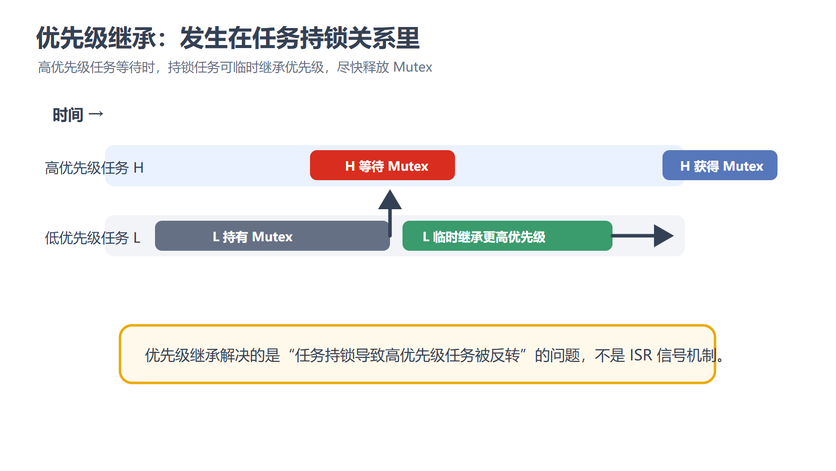
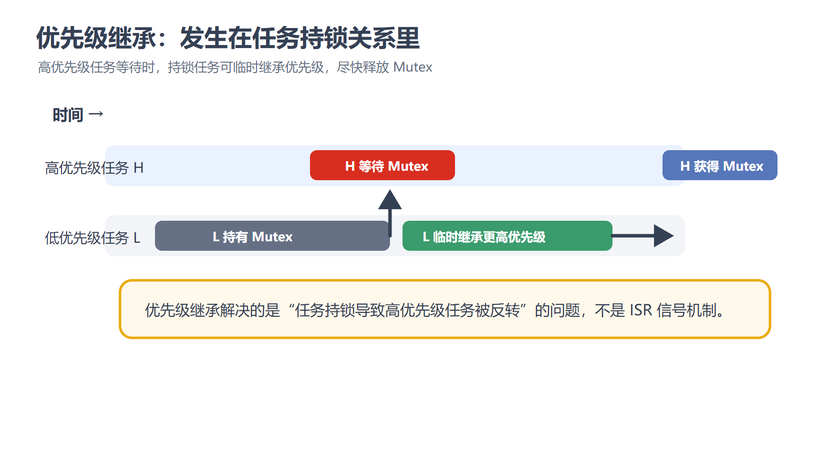
fix(phase1): keep FreeRTOS callout clear of subtitles

Changed region(s): [[0.1244, 0.5945, 0.933, 0.8323]]

diff --git a/reports/phase1/stage_20260927/scene3_still_probe.py b/reports/phase1/stage_20260927/scene3_still_probe.py
@@ -1,0 +1,81 @@
+"""Render one scene-3 still with the actual local-brief subtitle style."""
+
+from __future__ import annotations
+
+import hashlib
+import json
+import subprocess
+import sys
+from pathlib import Path
+
+import yaml
+
+ROOT = Path(__file__).resolve().parents[3]
+sys.path.insert(0, str(ROOT))
+
+from generate_video import _local_brief_subtitle_style
+from video_factory.pipeline.renderer import _subtitle_force_style
+
+
+EVIDENCE = Path(__file__).resolve().parent
+JOB = ROOT / "dist/phase1_local/phase1_8958d25a694923c9/render_job.yaml"
+ORIGINAL_SRT = ROOT / "dist/phase1_local/phase1_8958d25a694923c9/subtitle.srt"
+ONE_CUE = EVIDENCE / "scene3_one_cue.srt"
+CANDIDATE = Path("E:/OpenClaw_VideoFactory_Runtime/phase1_freertos_subtitle_safe_20260927/03-priority-inheritance-candidate-v2.png")
+STILL = Path("E:/OpenClaw_VideoFactory_Runtime/phase1_freertos_subtitle_safe_20260927/scene3_production_style_still.png")
+REPORT = EVIDENCE / "scene3_still_probe.json"
+
+
+def sha(path: Path) -> str:
+    return hashlib.sha256(path.read_bytes()).hexdigest()
+
+
+def main() -> None:
+    for path in (ONE_CUE, STILL, REPORT):
+        if path.exists():
+            raise RuntimeError(f"still_probe_target_exists:{path.name}")
+    job = yaml.safe_load(JOB.read_text(encoding="utf-8"))
+    width, height = int(job["render"]["width"]), int(job["render"]["height"])
+    fps = int(job["render"]["fps"])
+    style = job["subtitle"]["style"]
+    if style != _local_brief_subtitle_style(width, height):
+        raise RuntimeError("subtitle_style_drift")
+    cue = next(
+        block.splitlines()[2]
+        for block in ORIGINAL_SRT.read_text(encoding="utf-8").strip().split("\n\n")
+        if block.splitlines()[0] == "3"
+    )
+    ONE_CUE.write_text(f"1\n00:00:00,000 --> 00:00:01,000\n{cue}\n", encoding="utf-8")
+    ass_style = _subtitle_force_style(style, canvas_width=width, canvas_height=height)
+    srt_path = ONE_CUE.resolve().as_posix().replace(":", r"\:")
+    filter_graph = (
+        f"scale={width}:{height}:force_original_aspect_ratio=decrease,"
+        f"pad={width}:{height}:(ow-iw)/2:(oh-ih)/2:color={job['render']['pad_color']},"
+        f"fps={fps},setsar=1,format=yuv420p,"
+        f"subtitles=filename='{srt_path}':charenc=UTF-8:force_style='{ass_style}'"
+    )
+    command = [
+        "ffmpeg", "-nostdin", "-v", "error", "-loop", "1", "-framerate", str(fps),
+        "-t", "1", "-i", str(CANDIDATE), "-vf", filter_graph,
+        "-frames:v", "1", "-pix_fmt", "rgb24", str(STILL),
+    ]
+    result = subprocess.run(command, capture_output=True, text=True, check=False, timeout=30)
+    report = {
+        "schema_version": "phase1_scene3_still_probe_v1",
+        "command": command,
+        "exit_code": result.returncode,
+        "stderr": result.stderr[-1500:],
+        "source_candidate_sha256": sha(CANDIDATE),
+        "subtitle": cue,
+        "subtitle_style": style,
+        "ass_force_style": ass_style,
+        "still_exists": STILL.is_file(),
+        "still_sha256": sha(STILL) if STILL.is_file() else None,
+        "status": "rendered_for_visual_review" if result.returncode == 0 and STILL.is_file() else "failed",
+    }
+    REPORT.write_text(json.dumps(report, ensure_ascii=False, indent=2) + "\n", encoding="utf-8")
+    print(json.dumps({"status": report["status"], "exit_code": result.returncode, "still_sha256": report["still_sha256"]}, ensure_ascii=False))
+
+
+if __name__ == "__main__":
+    main()

diff --git a/tests/video/test_freertos_subtitle_geometry.py b/tests/video/test_freertos_subtitle_geometry.py
@@ -1,0 +1,48 @@
+"""Keep the FreeRTOS priority-inheritance callout clear of local-brief subtitles."""
+
+from __future__ import annotations
+
+from xml.etree import ElementTree
+
+from generate_video import _local_brief_subtitle_style
+from src.factory.phase1_local import build_local_plan, load_local_brief
+from video_factory.pipeline.renderer import _subtitle_force_style
+
+from . import ROOT
+
+
+SVG = ROOT / "assets/freertos_mutex_plain_illustrations/03-priority-inheritance.svg"
+BRIEF = ROOT / "examples/phase1_local_freertos/brief.json"
+
+
+def test_priority_inheritance_callout_clears_production_subtitle_band() -> None:
+    plan = build_local_plan(load_local_brief(BRIEF), ROOT)
+    profile = plan["render_profile"]
+    width, height = int(profile["width"]), int(profile["height"])
+    assert (width, height) == (1920, 1080)
+    assert plan["asset_selection"]["selections"][2]["asset_id"] == "pink_pig.freertos_mutex_plain_priority_inheritance.v1"
+    subtitle = str(plan["script"]["beats"][2]["subtitle"])
+    assert "\n" not in subtitle and len(subtitle) <= 20
+
+    style = _local_brief_subtitle_style(width, height)
+    ass_style = _subtitle_force_style(style, canvas_width=width, canvas_height=height)
+    ass_values = dict(part.split("=", 1) for part in ass_style.split(","))
+    font_px = int(ass_values["FontSize"]) * height / 288
+    bottom_margin_px = int(ass_values["MarginV"]) * height / 288
+    subtitle_top = height - bottom_margin_px - 1.5 * font_px
+
+    svg = ElementTree.parse(SVG).getroot()
+    group = svg.find(".//*[@id='priority-inheritance-callout']")
+    assert group is not None
+    rect = next(child for child in group if child.tag.endswith("rect"))
+    label = next(child for child in group if child.tag.endswith("text"))
+    rect_y, rect_height = float(rect.attrib["y"]), float(rect.attrib["height"])
+    assert rect_y < float(label.attrib["y"]) < rect_y + rect_height
+
+    svg_width, svg_height = float(svg.attrib["width"]), float(svg.attrib["height"])
+    scale = min(width / svg_width, height / svg_height)
+    pad_y = (height - svg_height * scale) / 2
+    callout_bottom = pad_y + (rect_y + rect_height) * scale
+    assert callout_bottom + 20 <= subtitle_top, (
+        f"callout_bottom={callout_bottom:.1f}, subtitle_top={subtitle_top:.1f}"
+    )

diff --git a/generate_video.py b/generate_video.py
@@ -976,6 +976,18 @@ def _prepare_phase1_work_dir(work_dir: Path) -> None:
             candidate.unlink()
 
 
+def _local_brief_subtitle_style(width: int, height: int) -> dict[str, object]:
+    """Use one subtitle style contract for local-brief renders and layout checks."""
+    return {
+        "layout": "bottom_safe_band",
+        "font_name": "Microsoft YaHei",
+        "font_size": 56,
+        "margin_left": 90,
+        "margin_right": 90,
+        "margin_vertical": 180 if width > height else 250,
+    }
+
+
 def run_local_brief(
     brief_path: Path,
     *,
@@ -1056,7 +1068,6 @@ def run_local_brief(
         render_height = int(render_profile.get("height", 1080))
         render_fps = int(render_profile.get("fps", 30))
         render_pad_color = str(render_profile.get("pad_color", "0xF4F6F8"))
-        subtitle_margin_vertical = 180 if render_width > render_height else 250
         render_job = {
             "schema_version": "1.0",
             "job_id": job_id,
@@ -1081,14 +1092,7 @@ def run_local_brief(
             "subtitle": {
                 "enabled": True,
                 "source": "scene_caption",
-                "style": {
-                    "layout": "bottom_safe_band",
-                    "font_name": "Microsoft YaHei",
-                    "font_size": 56,
-                    "margin_left": 90,
-                    "margin_right": 90,
-                    "margin_vertical": subtitle_margin_vertical,
-                },
+                "style": _local_brief_subtitle_style(render_width, render_height),
             },
             "mascot": {"mode": "off" if str(plan.get("mascot_mode", "off")) == "off" else "required"},
             "outputs": {

diff --git a/tasks/todo.md b/tasks/todo.md
@@ -2822,6 +2822,7 @@ Change Request: `reports/change_requests/PHASE1-STAGE-PLAN-20260927.json`; detai
 - [x] Asset repair audit: three FreeRTOS PNGs fail both decoders; two are valid. CairoSVG candidates decode but render Chinese as boxes, so no registered asset or hash was changed. See `reports/phase1/stage_20260927/freertos_asset_repair_result.json`; a qualified Chinese-text rasterizer is still required.
 - [x] Installed Chrome + system fonts produced readable Chinese replacements from the three unchanged SVGs. Valid assets 02/04 stayed byte-identical; all five now pass full Pillow and FFmpeg frame decode, registry hash/dimension checks, focused 61 tests and affected video/Phase 1 suites (362/92/24 passed). See `reports/phase1/stage_20260927/freertos_asset_repair_evidence.json`. No full FreeRTOS render or human approval in this iteration.
 - [x] One fresh FreeRTOS job `job-51fae0c8b47180bd49f2000e` from repair commit `a7ff382` reached SQLite `PENDING_REVIEW`; MP4 H.264/AAC and full decode passed. Semantic frame inspection found scene 3's subtitle covering the technical callout, so status is `CHANGES_REQUIRED` despite the automated quality report's `passed`. Preserve `reports/phase1/stage_20260927/freertos_fresh_candidate_001.json`; no Jovi approval or prereview was requested.
+- [x] Scene-3 source callout geometry now clears the production subtitle band. The regression failed at 878.0 vs 815.6 before the fix and passes after; a Chrome-rasterized replacement PNG, registry hash, 149 focused tests, and one real-style still all pass. See `reports/phase1/stage_20260927/freertos_subtitle_safe_evidence.json`. Candidate 001 remains frozen `CHANGES_REQUIRED`; no second full render in this remediation.
 - [ ] WP3: qualify one distinct live topic and obtain SHA-bound Jovi review.
 - [ ] WP4: validate and bind the existing four lifecycle evidence files.
 - [ ] WP5: build boundary audit and `topic_only_v1` manifest.
